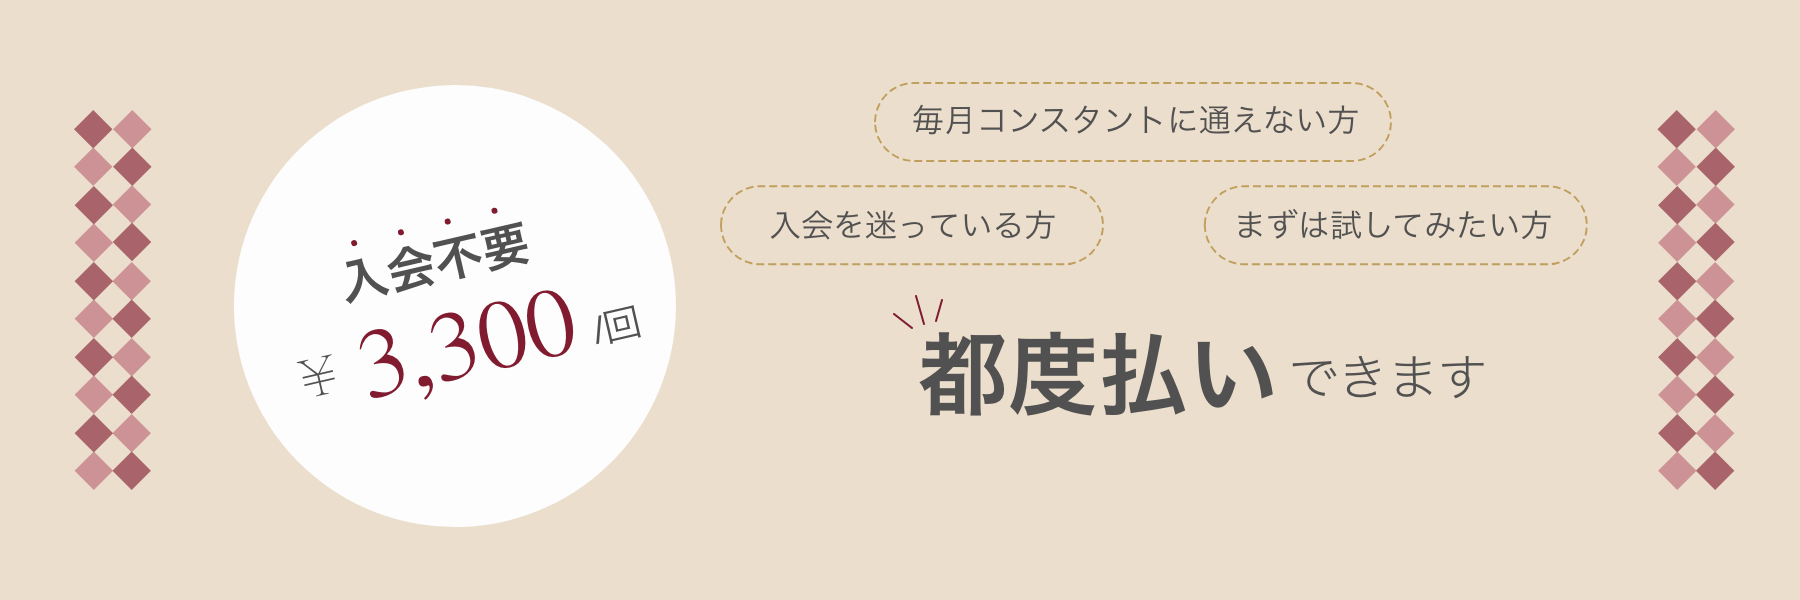
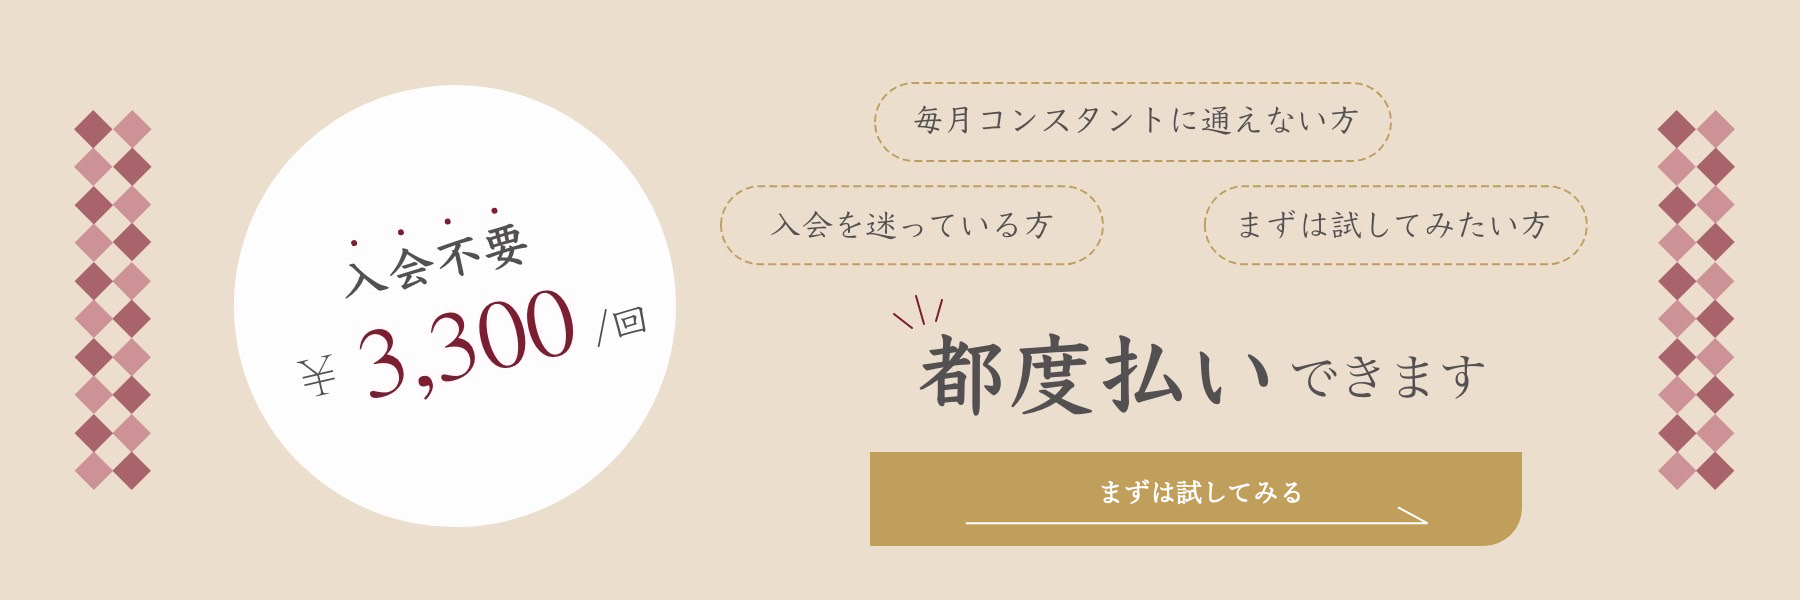
20230713

diff --git a/index.html b/index.html
@@ -21,12 +21,12 @@
 <body>
     <div class="popup_wrap">
         <div class="popup">
-            <div class="popup_img">
-                <img src="images/popup.JPG" alt="">
-            </div>
-            <div class="sp_popup_img">
-                <img src="images/sp_popup.JPG" alt="">
-            </div>
+            <a href="shop.html" class="popup_img">
+                <img src="images/popup.png" alt="">
+            </a>
+            <a href="shop.html" class="sp_popup_img">
+                <img src="images/popup_sp.png" alt="">
+            </a>
             <!-- <div class="popup_ribon">
                 <img src="images/ribon.png" alt="">
             </div>
@@ -51,8 +51,8 @@
                         <span class="popup_text_big">都度払い</span>できます
                     </p>
                 </div> -->
-            <a href="shop.html" class="btn try_btn"><button class="btnline long try_button white_arrow"><span
-                        class="try_btn_text">まずは試してみる</span></button></a>
+            <!-- <a href="shop.html" class="btn try_btn"><button class="btnline long try_button white_arrow"><span
+                        class="try_btn_text">まずは試してみる</span></button></a> -->
         </div>
         <!-- 
         <div class="popup_ribon">

diff --git a/style.css b/style.css
@@ -13,11 +13,11 @@
 }
 
 .popup_close {
-    width: 24px;
-    height: 24px;
+    width: 3%;
+    height: 3%;
     position: absolute;
-    top: 23px;
-    right: 16px;
+    top: 8%;
+    right: 2%;
     cursor: pointer;
 }
 
@@ -38,8 +38,8 @@
 
 .popup {
     position: relative;
-    width: 750px;
-    margin: 150px auto;
+    width: 66%;
+    margin: 13% auto;
 }
 
 /* .popup {
@@ -147,7 +147,7 @@
     padding: 0 13px;
 } */
 
-.try_btn {
+/* .try_btn {
     width: 280px;
     height: 40px;
     display: block;
@@ -158,7 +158,7 @@
 
 .try_button {
     padding: 6px;
-}
+} */
 
 .main_visual {
     background: #f7f3ec;
@@ -1019,16 +1019,10 @@
         display: none;
     }
 
-    .popup_wrap {
-        top: 0;
-        left: 0;
-    }
-
     .popup_close {
-        width: 15px;
-        height: 15px;
-        top: 14px;
-        right: 10px;
+        width: 5%;
+        height: 5%;
+        top: 4%;
     }
 
     /* .popup {
@@ -1121,6 +1115,10 @@
         width: 13px;
         left: -5px;
     } */
+    .popup {
+        width: 75%;
+        margin: 16% auto;
+    }
 
     .popup_img {
         display: none;
@@ -1128,7 +1126,6 @@
 
     .sp_popup_img {
         display: block;
-        width: 280px;
     }
 
     .try_btn {
